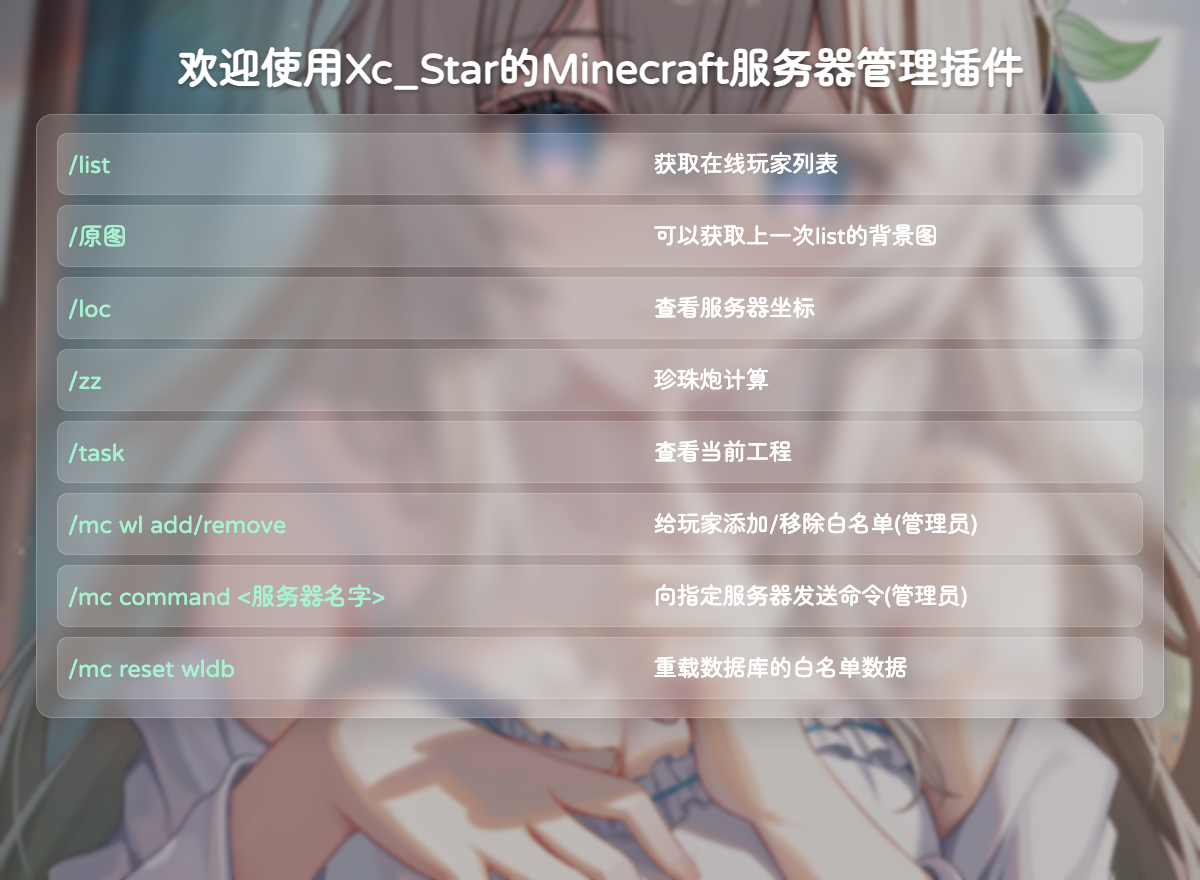
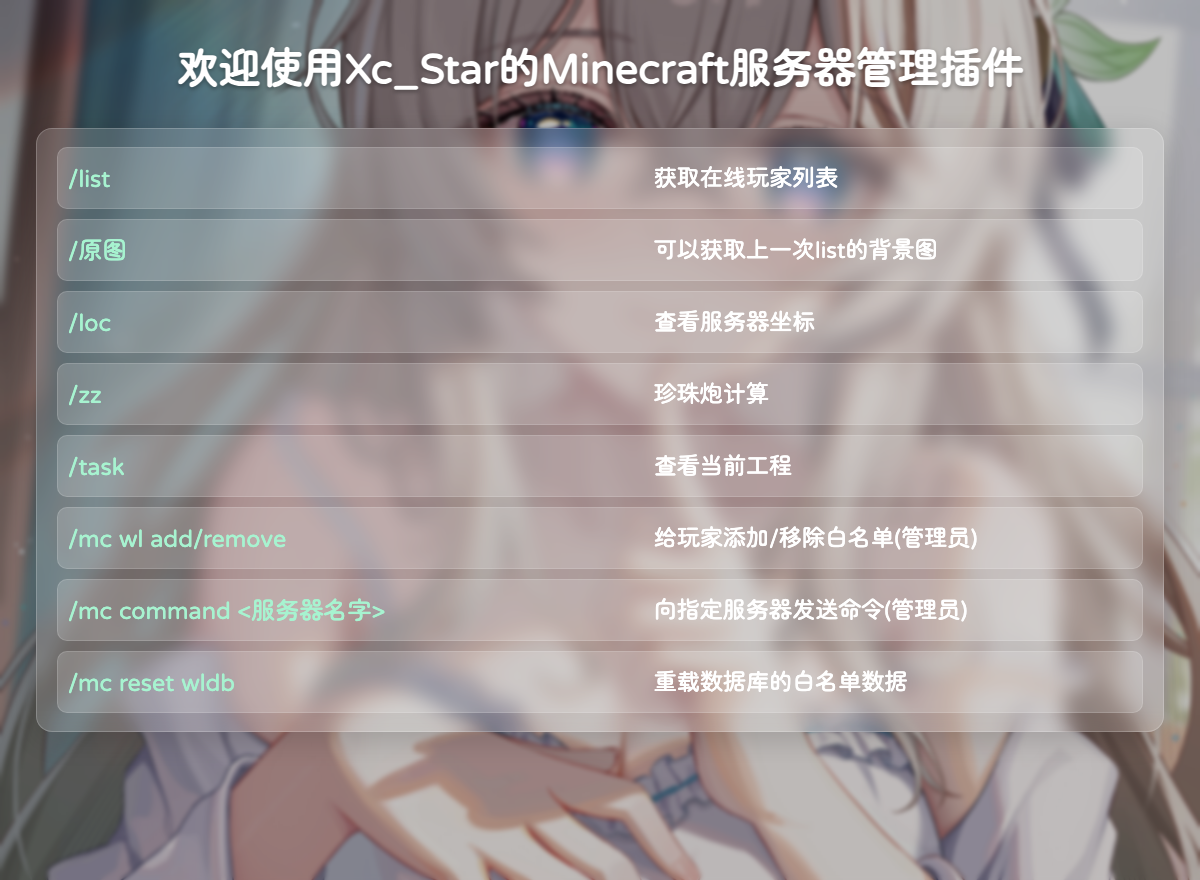
feat: 限制playwright版本、调整帮助信息图片布局

diff --git a/template/help.html b/template/help.html
@@ -59,7 +59,7 @@
             text-align: center;
             font-size: 42px;
             font-weight: bold;
-            margin-bottom: 14px;
+            margin-bottom: 28px;
             text-shadow: 0 2px 4px rgba(0, 0, 0, 0.35);
         }
 

diff --git a/main.py b/main.py
@@ -13,7 +13,7 @@ from cachetools import TTLCache
     "astrbot_plugin_mc_admin",
     "Xc_Star",
     "这是 Minecraft 服务器 的管理插件，支持群组服，RCON命令，list，珍珠炮落点计算，服务器工程坐标，备货清单，白名单管理等功能",
-    "1.0.0",
+    "1.0.1",
     "https://github.com/Xc-Star/astrbot_plugin_mc_admin"
 )
 class McAdminPlugin(Star):

diff --git a/README.md b/README.md
@@ -5,7 +5,7 @@
 ## 插件信息
 - 插件名称：`astrbot_plugin_mc_admin`
 - 作者：`Xc_Star`
-- 当前版本：`1.0.0`
+- 当前版本：`1.0.1`
 - 仓库地址：[https://github.com/Xc-Star/astrbot_plugin_mc_admin](https://github.com/Xc-Star/astrbot_plugin_mc_admin)
 
 ## 依赖与启动提醒
